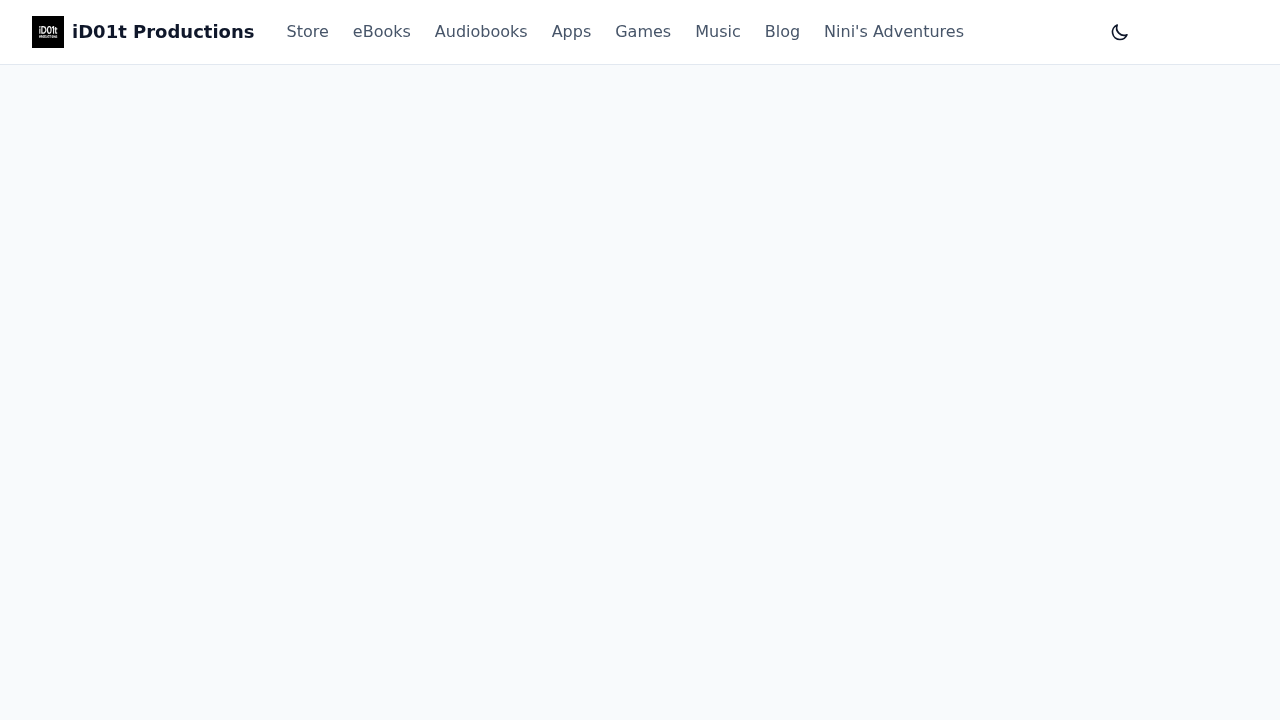
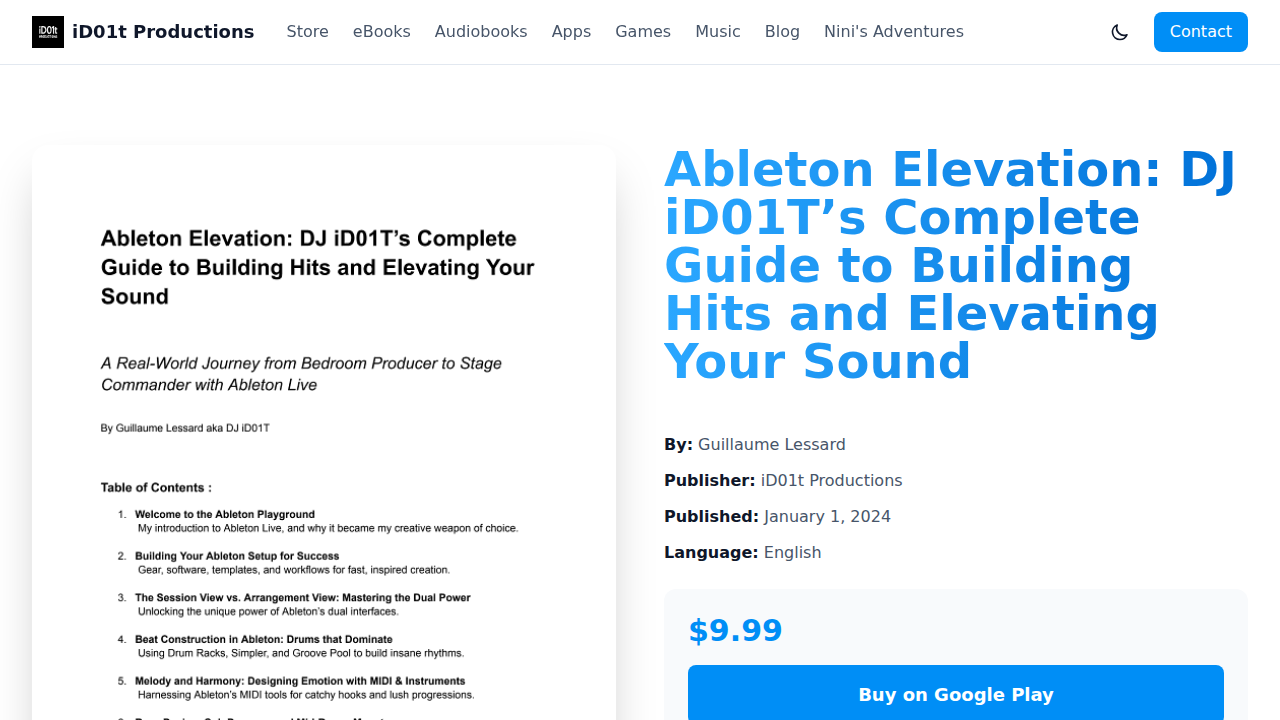
feat: Implement detail page and fix catalog rendering
This commit introduces a dedicated book detail page (`book.html`) and resolves critical rendering issues on the catalog pages (`ebooks.html`, `audiobooks.html`).

Key changes:
- **New `book.html` page:** Dynamically displays details for a selected book, including cover image, title, author, and description.
- **Fixed `catalog.json` parsing:** Updated the inline script in `book.html` and the shared script in `assets/js/app.js` to correctly handle the flat array structure of the catalog data. This resolves the primary bug causing display failures.
- **Resolved merge conflicts:** Removed conflict markers from `book.html` and `data/catalog.json`.
- **Regenerated `catalog.json`:** Used the `tools/build_catalog.py` script to create a clean and valid data file.
- **Added frontend verification:** Created and successfully ran a Playwright script (`verify_frontend.py`) to confirm that the book detail page loads and displays data correctly.

diff --git a/book.html b/book.html
@@ -17,6 +17,8 @@
 <link crossorigin="" href="https://play.google.com" rel="preconnect"/>
 <!-- PWA -->
 <link href="/manifest.webmanifest" rel="manifest"/>
+<!-- Open Graph -->
+<meta property="og:image" content=""/>
 <!-- Tailwind CSS -->
 <script src="https://cdn.tailwindcss.com"></script>
 <script>
@@ -206,9 +208,8 @@
         return;
       }
 
-      const data = await loadCatalog();
-      const allBooks = [...(data.ebooks || []), ...(data.audiobooks || [])];
-      const book = allBooks.find(b => b.id === bookId);
+      const catalog = await fetch("/data/catalog.json").then(res => res.json());
+      const book = catalog.find(b => b.id === bookId);
 
       if (!book) {
         document.getElementById('detailContainer').innerHTML = '<div class="text-center py-20"><h1 class="text-2xl font-bold text-red-600">Book not found</h1></div>';
@@ -217,28 +218,18 @@
 
       // Update page title and meta
       document.title = `${book.title} · iD01t Productions`;
+      document.querySelector("meta[property='og:image']").setAttribute("content", book.cover_hd);
 
       // Render detail view
       document.getElementById('detailContainer').innerHTML = `
         <div class="grid md:grid-cols-2 gap-12">
           <!-- Cover -->
-          <div>
+          <div class="book-cover">
             <img
               src="${book.cover_hd}"
               alt="${book.title} cover"
               class="w-full rounded-2xl shadow-2xl"
-              
-              feature/catalog-system
               onerror="this.src='/assets/img/placeholders/card-portrait-384x576.webp'"
-
-        feature/catalog-system
-              onerror="this.src='/assets/img/placeholders/card-portrait-384x576.webp'"
-
-              feature/catalog-system
-              onerror="this.src='/assets/img/placeholders/card-portrait-384x576.webp'"
-
-              onerror="this.src='/assets/img/placeholder-cover.jpg'"
-         main
             />
           </div>
 

diff --git a/assets/js/landing-enhancer.js b/assets/js/landing-enhancer.js
@@ -20,9 +20,8 @@ document.addEventListener("DOMContentLoaded", async () => {
         return;
       }
 
-      // The catalog is an array of objects, where the second element is an object with ebooks and audiobooks arrays.
-      const allBooks = [...(catalog[1].ebooks || []), ...(catalog[1].audiobooks || [])];
-      const book = allBooks.find(b => b.id === bookId);
+      // The catalog is a flat array of book objects.
+      const book = catalog.find(b => b.id === bookId);
 
       if (book && book.cover_hd) {
         const ogImage = document.querySelector("meta[property='og:image']");
